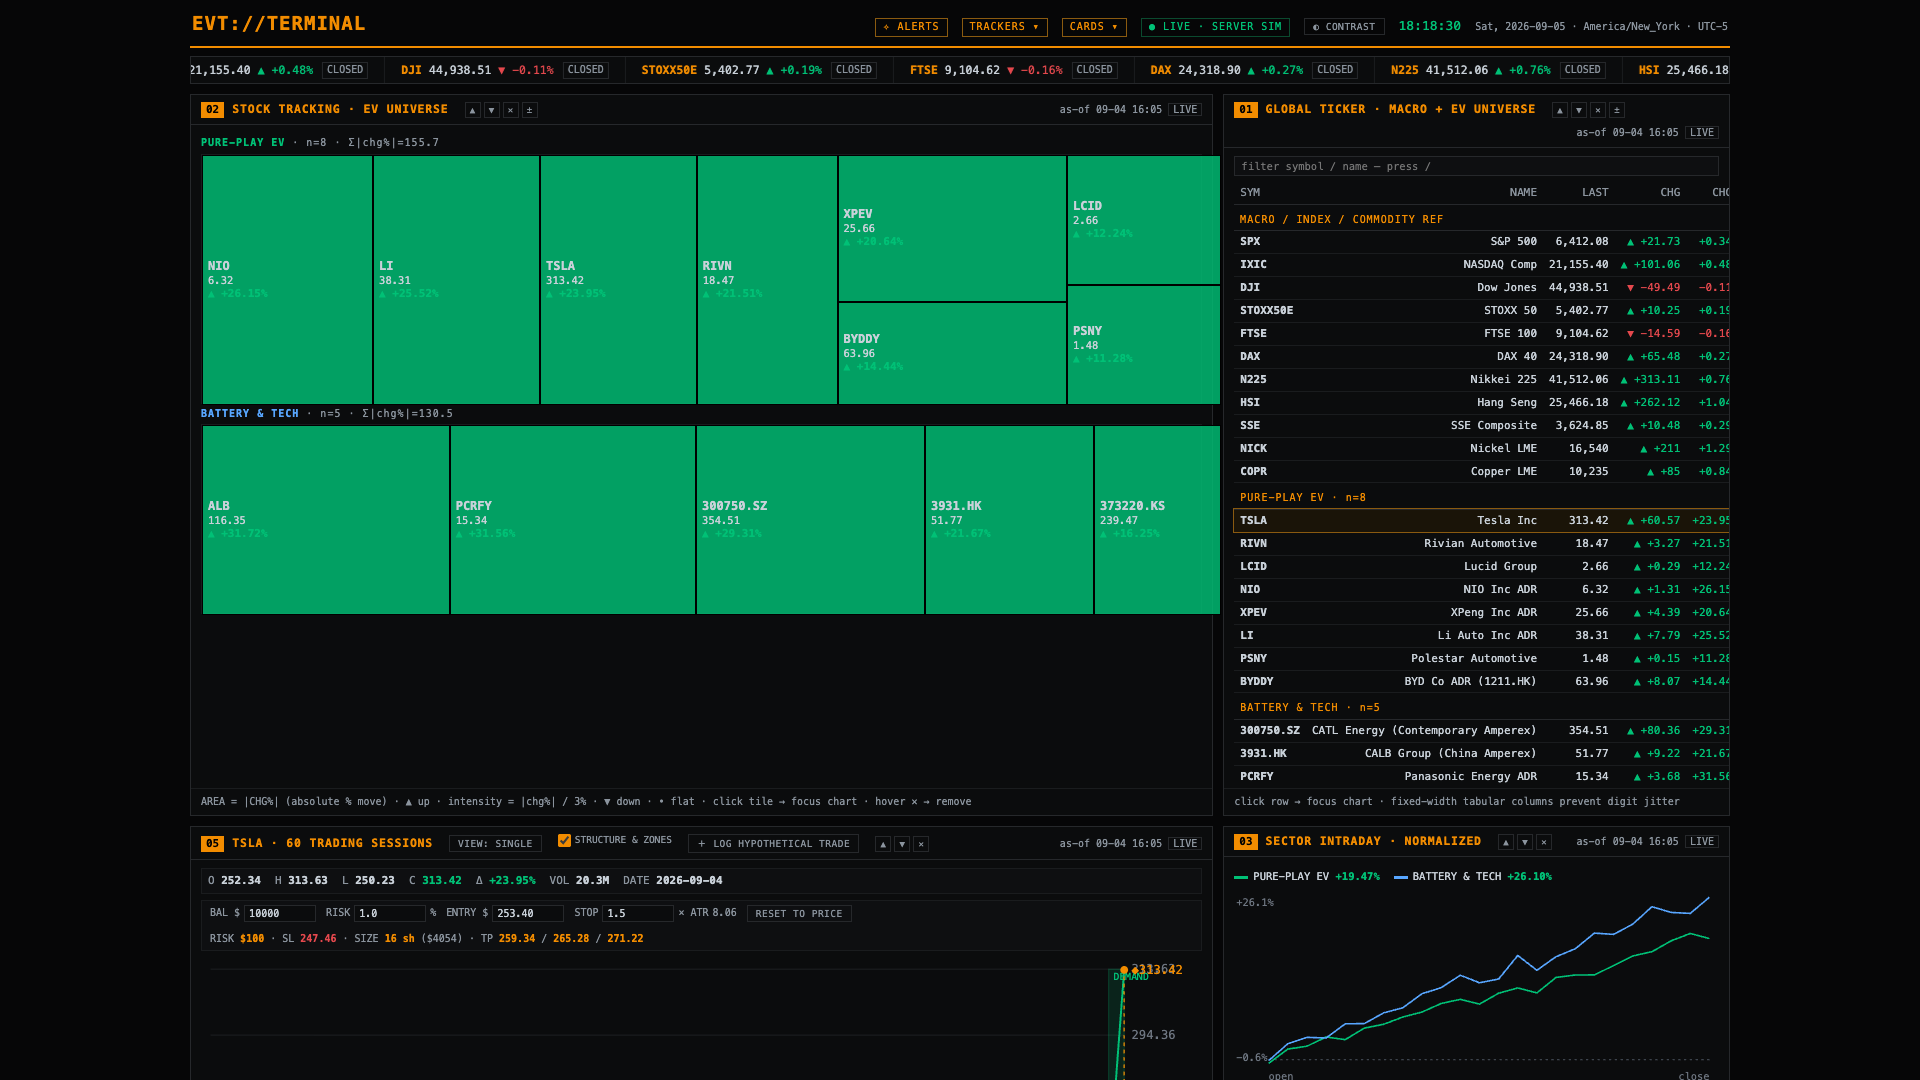
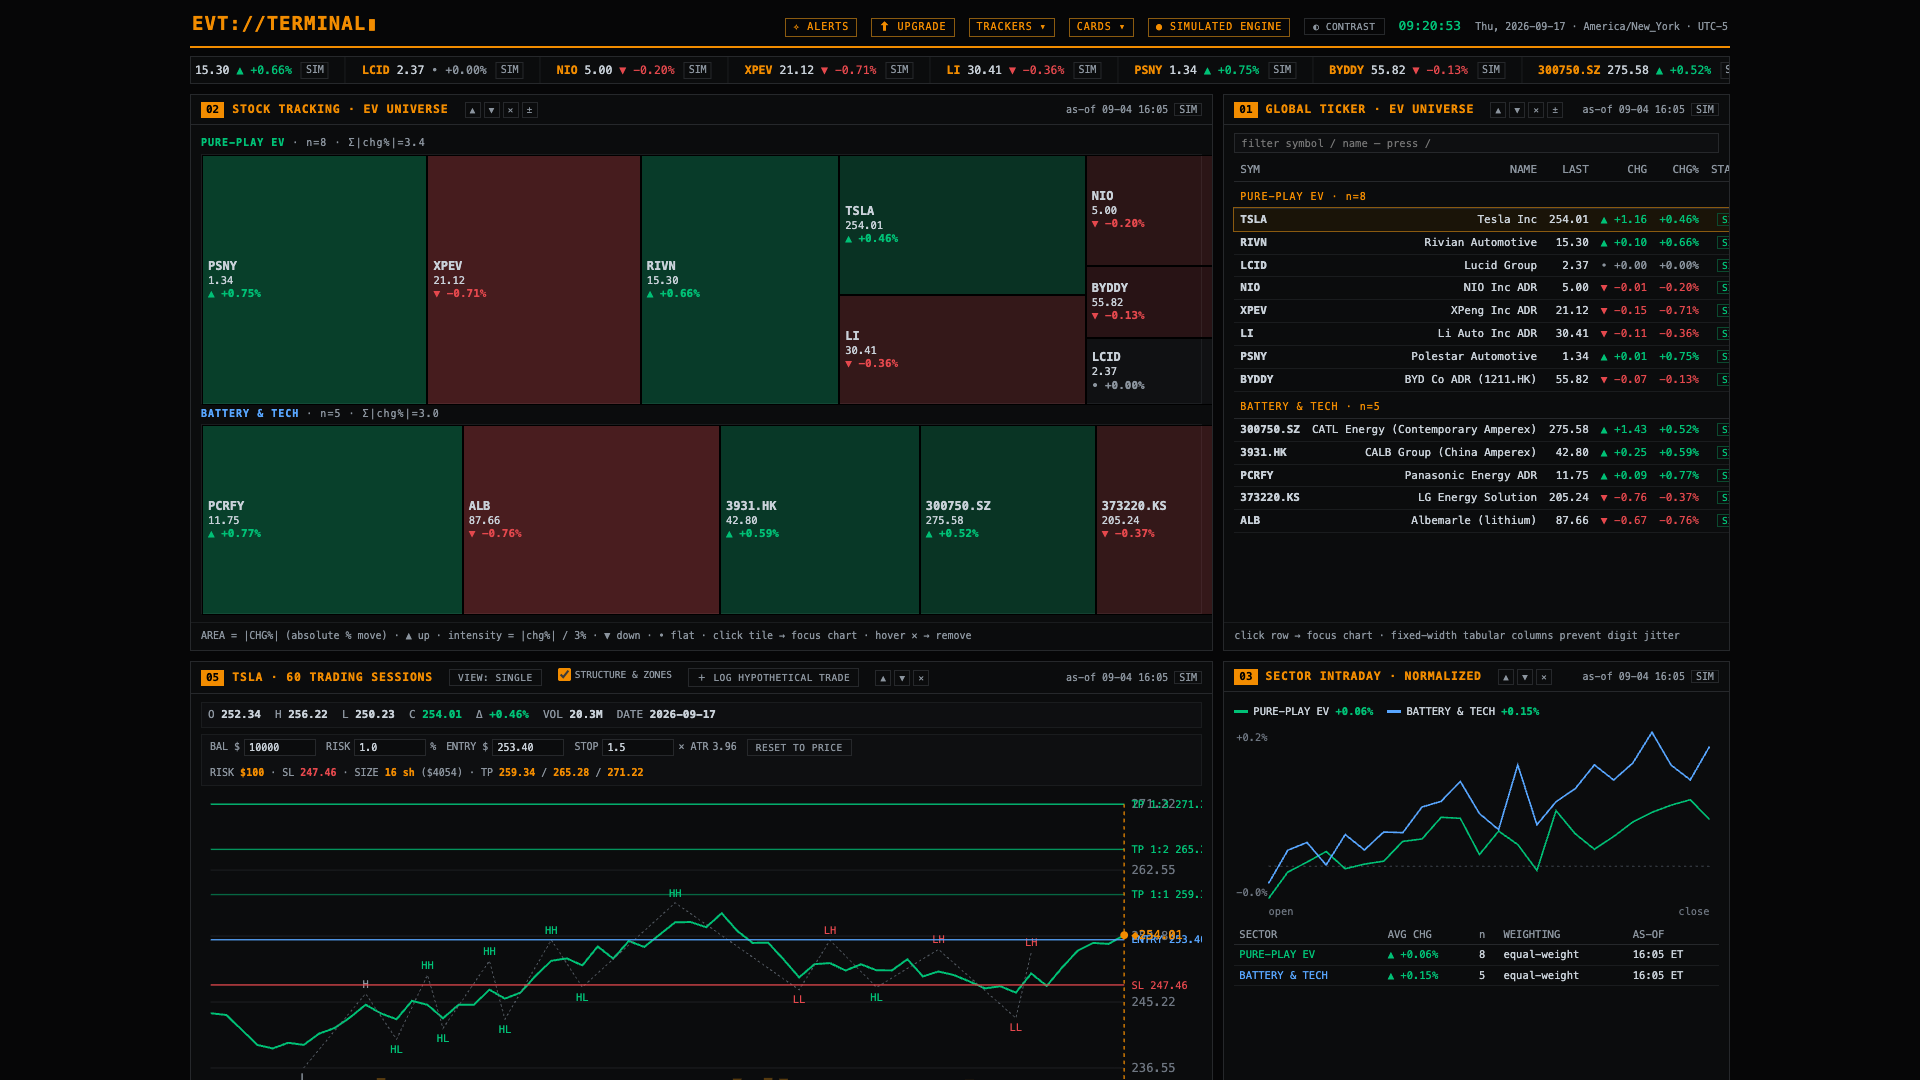
docs: refresh Stage 8 interface screenshots (#18)
- regenerate the hero and financials panel from quota-free demo mode
- capture the Financials panel at a readable width with all six tabs
  and the QUARTERLY | ANNUAL control visible
- update the panel image description

diff --git a/scripts/capture-assets.js b/scripts/capture-assets.js
@@ -5,9 +5,14 @@
  * capture-assets.js — generates the repository's README imagery with Puppeteer.
  *
  * Requires the terminal to be running (npm start) and reachable at BASE_URL.
+ * Run it against the quota-free demo mode (no provider keys) so the imagery
+ * reflects the current UI with honest SIMULATED/demo provenance.
+ *
  * Outputs:
  *   assets/hero-dashboard.png   1920x1080 full-view capture of the terminal
- *   assets/panel-preview.png    focused capture of the ticker table card
+ *   assets/panel-preview.png    focused capture of the Financials panel
+ *                               (Income Statement view: six tabs + the
+ *                               QUARTERLY | ANNUAL control visible)
  */
 
 const puppeteer = require('puppeteer');
@@ -39,13 +44,27 @@ async function main() {
     await page.screenshot({ path: heroPath });
     console.log(`captured assets/hero-dashboard.png`);
 
-    const panel = await page.$('#p-tick');
+    // Financials panel: capture at a narrower viewport so the full-width card
+    // (and its six tabs / QUARTERLY | ANNUAL control) stays legible when the
+    // README scales the image down. Then switch to the Income Statement view.
+    await page.setViewport({ width: 900, height: 1080, deviceScaleFactor: 1 });
+    await new Promise(r => setTimeout(r, 400));   // reflow at the new width
+    const incomeTab = await page.$('#fin-tabs [data-tab="is"]');
+    if (incomeTab) await incomeTab.click();
+    await page.waitForSelector('#fin-body [data-inc="q"]', { timeout: 10000 }).catch(() => {});
+    await page.waitForFunction(
+      () => /TOTAL REVENUE/.test((document.getElementById('fin-body') || {}).textContent || ''),
+      { timeout: 10000 },
+    ).catch(() => {});
+    await new Promise(r => setTimeout(r, 500));   // settle the tab render
+
+    const panel = await page.$('#p-fin');
     if (panel) {
       const panelPath = path.join(OUT_DIR, 'panel-preview.png');
       await panel.screenshot({ path: panelPath });
       console.log(`captured assets/panel-preview.png`);
     } else {
-      console.warn('ticker table card not found — panel preview skipped');
+      console.warn('financials card not found — panel preview skipped');
     }
 
     for (const f of ['hero-dashboard.png', 'panel-preview.png']) {

diff --git a/README.md b/README.md
@@ -12,7 +12,7 @@ A Bloomberg-style monitoring terminal for **pure-play EV OEMs and battery manufa
 
 ---
 
-![Global ticker table panel](assets/panel-preview.png)
+![Financials panel — six views with the quarterly/annual income toggle](assets/panel-preview.png)
 
 ## Features
 
